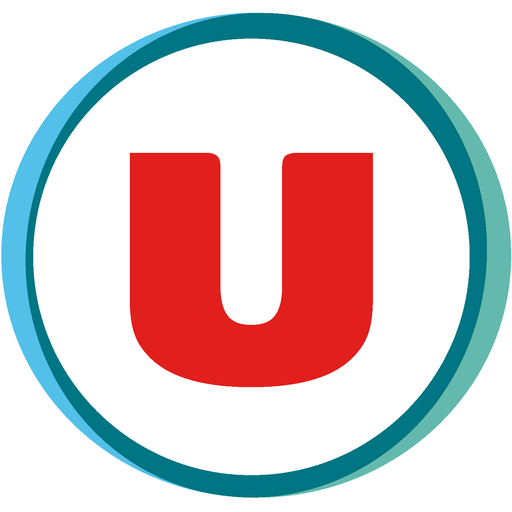
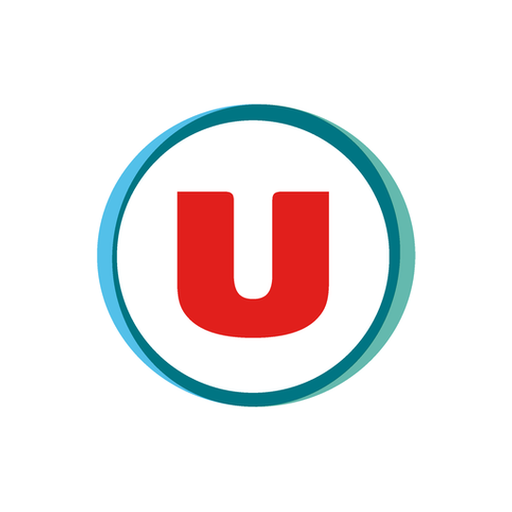
Add files via upload

diff --git a/index.html b/index.html
@@ -1,9 +1,9 @@
 <!doctype html>
-<html lang="fr"><head><meta charset="utf-8"><meta name="viewport" content="width=device-width,initial-scale=1,viewport-fit=cover"><meta name="theme-color" content="#007d89"><meta name="description" content="Inventaires U : calcul du poids net et gestion des tares des paniers."><link rel="manifest" href="manifest.webmanifest"><link rel="apple-touch-icon" href="icon.png"><link rel="icon" href="icon.png"><link rel="stylesheet" href="style.css?v=5"><title>OUTIL D’INVENTAIRE</title></head>
-<body><main class="app"><header class="header"><img class="logo" src="logo-u.png" alt="Logo U"><div class="brand"><span class="kicker">MON ESPACE PERSONNEL</span><h1>OUTIL D’INVENTAIRE</h1></div></header>
-<section class="intro"><span class="intro-pill">● MON MAGASIN U</span><h2>Vos inventaires,<br><em>en toute simplicité.</em></h2><p>Sélectionnez un panier, saisissez le poids et retrouvez instantanément le poids net.</p></section>
+<html lang="fr"><head><meta charset="utf-8"><meta name="viewport" content="width=device-width,initial-scale=1,viewport-fit=cover"><meta name="theme-color" content="#007d89"><meta name="description" content="Inventaires U : calcul du poids net et gestion des tares des paniers."><link rel="manifest" href="manifest.webmanifest?v=8"><link rel="apple-touch-icon" href="icon.png?v=8"><link rel="icon" href="icon.png?v=8"><link rel="stylesheet" href="style.css?v=6"><title>UTILITAIRE D’INVENTAIRE</title></head>
+<body><main class="app"><header class="header"><img class="logo" src="logo-u.png" alt="Logo U"><div class="brand"><span class="kicker">MON ESPACE PERSONNEL</span><h1>UTILITAIRE D’INVENTAIRE</h1></div></header>
+<section class="intro"><h2>Vos inventaires,<br><em>en toute simplicité.</em></h2><p>Sélectionnez un panier, saisissez le poids et retrouvez instantanément le poids net.</p></section>
 <section class="card calc-card" aria-labelledby="calc-title"><div class="card-heading"><div><span class="section-kicker">SERVICES U / CALCUL</span><h2 id="calc-title">Nouvelle pesée</h2></div></div><label for="grossWeight">Poids affiché sur la balance</label><div class="weight-field"><input id="grossWeight" type="text" inputmode="decimal" autocomplete="off" placeholder="Ex. 1.230" aria-describedby="weightHint"><span>kg</span></div><p class="hint" id="weightHint">Point ou virgule acceptés · Exemple : 1.230</p><label for="basketSelect">Type de panier</label><select id="basketSelect"></select>
 <div class="result" aria-live="polite"><div class="result-heading"><span>VOTRE POIDS NET À ENREGISTRER</span><span class="result-check" aria-hidden="true">✓</span></div><div class="net-line"><strong id="netDisplay">—</strong><span>kg</span></div><p class="result-subtitle" id="resultHint">Renseigne le poids pour calculer le net.</p><button type="button" id="copyBtn" class="copy-btn" disabled>Copier le poids net</button></div>
 <div class="details"><div><span>Poids brut</span><strong id="grossDisplay">— kg</strong></div><div><span>Tare du panier</span><strong id="tareDisplay">— kg</strong></div></div><p id="errorMessage" class="error" role="status"></p><button type="button" id="resetBtn" class="reset-btn">↻ &nbsp; Effacer la pesée</button></section>
 <section class="card" aria-labelledby="basket-title"><div class="card-heading"><div><span class="section-kicker">SERVICES U / PANIERS</span><h2 id="basket-title">Mes paniers</h2></div><span class="count" id="basketCount">0 panier</span></div><p class="muted">Maintiens un panier appuyé, puis fais-le glisser pour changer son ordre. Tu peux aussi utiliser les flèches.</p><div id="basketList" class="basket-list"></div><form id="basketForm" class="basket-form"><h3 id="formTitle">Ajouter un panier</h3><div class="form-grid"><div><label for="basketName">Nom du panier</label><input id="basketName" maxlength="40" placeholder="Ex. Panier normal" required></div><div><label for="basketTare">Tare (kg)</label><input id="basketTare" type="text" inputmode="decimal" placeholder="Ex. 0.554" required></div></div><div class="form-buttons"><button type="submit" id="saveBasketBtn" class="primary-btn">+ Ajouter le panier</button><button type="button" id="cancelEditBtn" class="ghost-btn hidden">Annuler</button></div></form></section>
-<section class="card backup-card"><div class="card-heading"><div><span class="section-kicker">SERVICES U / DONNÉES</span><h2>Mes données</h2></div><span class="mini-icon" aria-hidden="true">↧</span></div><p class="muted">Tes paniers sont conservés sur cet appareil et sur cette adresse web. Exporte-les avant de changer de domaine ou de téléphone.</p><div class="backup-buttons"><button id="exportBtn" type="button" class="outline-btn">Exporter mes paniers</button><label class="outline-btn upload">Importer une sauvegarde<input id="importInput" type="file" accept=".json,application/json" hidden></label></div><p id="backupStatus" class="status" role="status"></p></section><footer>Inventaires U · Outil indépendant · Données stockées localement</footer></main><script src="app.js?v=5" defer></script></body></html>
+<section class="card backup-card"><div class="card-heading"><div><span class="section-kicker">SERVICES U / DONNÉES</span><h2>Mes données</h2></div><span class="mini-icon" aria-hidden="true">↧</span></div><p class="muted">Tes paniers sont conservés sur cet appareil et sur cette adresse web. Exporte-les avant de changer de domaine ou de téléphone.</p><div class="backup-buttons"><button id="exportBtn" type="button" class="outline-btn">Exporter mes paniers</button><label class="outline-btn upload">Importer une sauvegarde<input id="importInput" type="file" accept=".json,application/json" hidden></label></div><p id="backupStatus" class="status" role="status"></p></section><footer>Inventaires U · Outil indépendant · Données stockées localement</footer></main><script src="app.js?v=6" defer></script></body></html>

diff --git a/style.css b/style.css
@@ -2,3 +2,6 @@
 
 /* V5 : titre et gestes tactiles optimisés */
 html{-webkit-text-size-adjust:100%;scroll-behavior:auto}body{overscroll-behavior-y:auto;-webkit-tap-highlight-color:transparent}button,input,select{font-family:inherit}button{transition:background-color .16s ease,opacity .16s ease,transform .16s ease}button:active:not(:disabled){transform:scale(.98)}.brand h1{font-size:clamp(18px,4.9vw,27px);font-weight:950;letter-spacing:-.55px;line-height:1.08}.basket-item,.basket-item *{-webkit-user-select:none;user-select:none;-webkit-touch-callout:none}.basket-item{touch-action:pan-y;cursor:grab;position:relative;transition:background-color .16s ease,border-color .16s ease;will-change:auto}.basket-item.is-placeholder{opacity:.24;border:2px dashed #007f8b;background:#e1f2f3}.basket-item.drag-over{outline:0;border-color:#007f8b}.basket-item.dragging{opacity:.35}.drag-handle{width:38px;height:40px;flex:0 0 38px;display:grid;place-items:center;padding:0;line-height:1;touch-action:pan-y}.drag-handle svg{width:20px;height:20px;display:block}.drag-ghost{position:fixed!important;z-index:9999!important;pointer-events:none!important;margin:0!important;box-shadow:0 14px 34px #002c3540!important;border:2px solid #007f8b!important;background:#fff!important;opacity:.98!important;transform:translate3d(0,0,0);will-change:transform;transition:none!important}.drag-ghost *{pointer-events:none!important}.basket-list.is-reordering{touch-action:none}.basket-list.is-reordering .basket-item:not(.drag-ghost){transition:transform .15s ease,background-color .15s ease}.card{contain:layout style}.result{transform:translateZ(0)}@media(prefers-reduced-motion:reduce){button,.basket-item,.basket-list.is-reordering .basket-item{transition:none!important}}
+
+/* Titre renforcé */
+.brand h1{font-weight:900!important;letter-spacing:-.5px;}

diff --git a/sw.js b/sw.js
@@ -1,1 +1,1 @@
-const CACHE='inventaires-u-v5';const ASSETS=['./','./index.html','./style.css','./app.js','./manifest.webmanifest','./icon.png','./icon-512.png','./logo-u.png'];self.addEventListener('install',e=>{e.waitUntil(caches.open(CACHE).then(c=>c.addAll(ASSETS)));self.skipWaiting();});self.addEventListener('activate',e=>{e.waitUntil(caches.keys().then(keys=>Promise.all(keys.filter(k=>k!==CACHE).map(k=>caches.delete(k)))));self.clients.claim();});self.addEventListener('fetch',e=>{if(e.request.method!=='GET'||new URL(e.request.url).origin!==self.location.origin)return;e.respondWith(fetch(e.request).then(r=>{if(r.ok){const copy=r.clone();caches.open(CACHE).then(c=>c.put(e.request,copy));}return r;}).catch(()=>caches.match(e.request).then(r=>r||caches.match('./index.html'))));});
+const CACHE='inventaires-u-v8';const ASSETS=['./','./index.html','./style.css','./app.js','./manifest.webmanifest','./icon.png','./icon-512.png','./logo-u.png'];self.addEventListener('install',e=>{e.waitUntil(caches.open(CACHE).then(c=>c.addAll(ASSETS)));self.skipWaiting();});self.addEventListener('activate',e=>{e.waitUntil(caches.keys().then(keys=>Promise.all(keys.filter(k=>k!==CACHE).map(k=>caches.delete(k)))));self.clients.claim();});self.addEventListener('fetch',e=>{if(e.request.method!=='GET'||new URL(e.request.url).origin!==self.location.origin)return;e.respondWith(fetch(e.request).then(r=>{if(r.ok){const copy=r.clone();caches.open(CACHE).then(c=>c.put(e.request,copy));}return r;}).catch(()=>caches.match(e.request).then(r=>r||caches.match('./index.html'))));});

diff --git a/README.md b/README.md
@@ -32,3 +32,9 @@ Cette version reprend les couleurs turquoise, violet, blanc et noir du site de r
 
 ## Mise à jour V5
 Titre OUTIL D’INVENTAIRE, retrait de la balance, poignée à six points centrés et réorganisation par appui long sur toute la ligne (hors boutons d’action). Les paniers déjà enregistrés sont conservés.
+
+
+V4 : titre UTILITAIRE D’INVENTAIRE, suppression de MON MAGASIN U, icones avec fond blanc et logo reduit.
+
+
+Version V6 : icône intermédiaire entre V4 et V5, avec marges blanches équilibrées.
